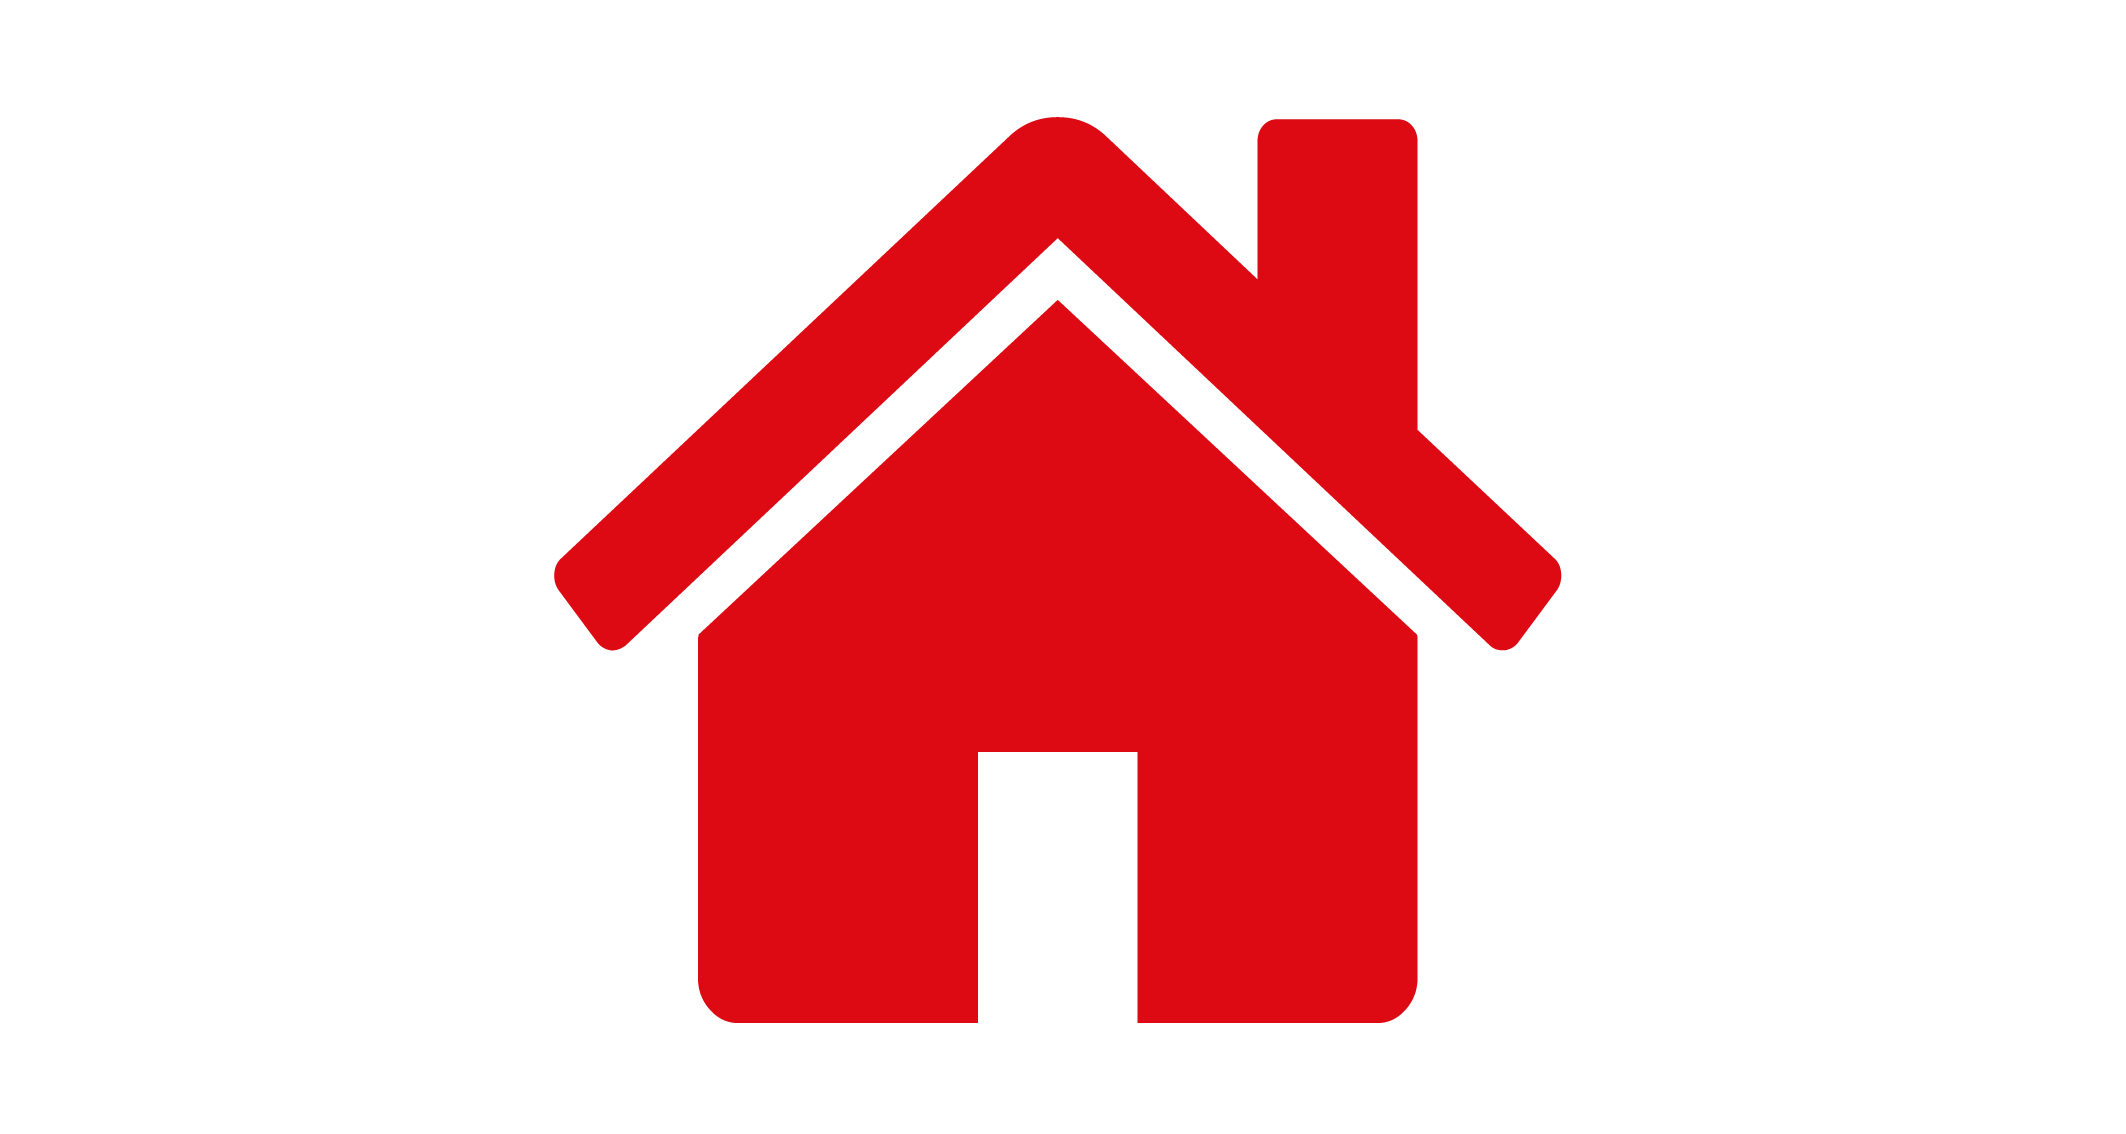
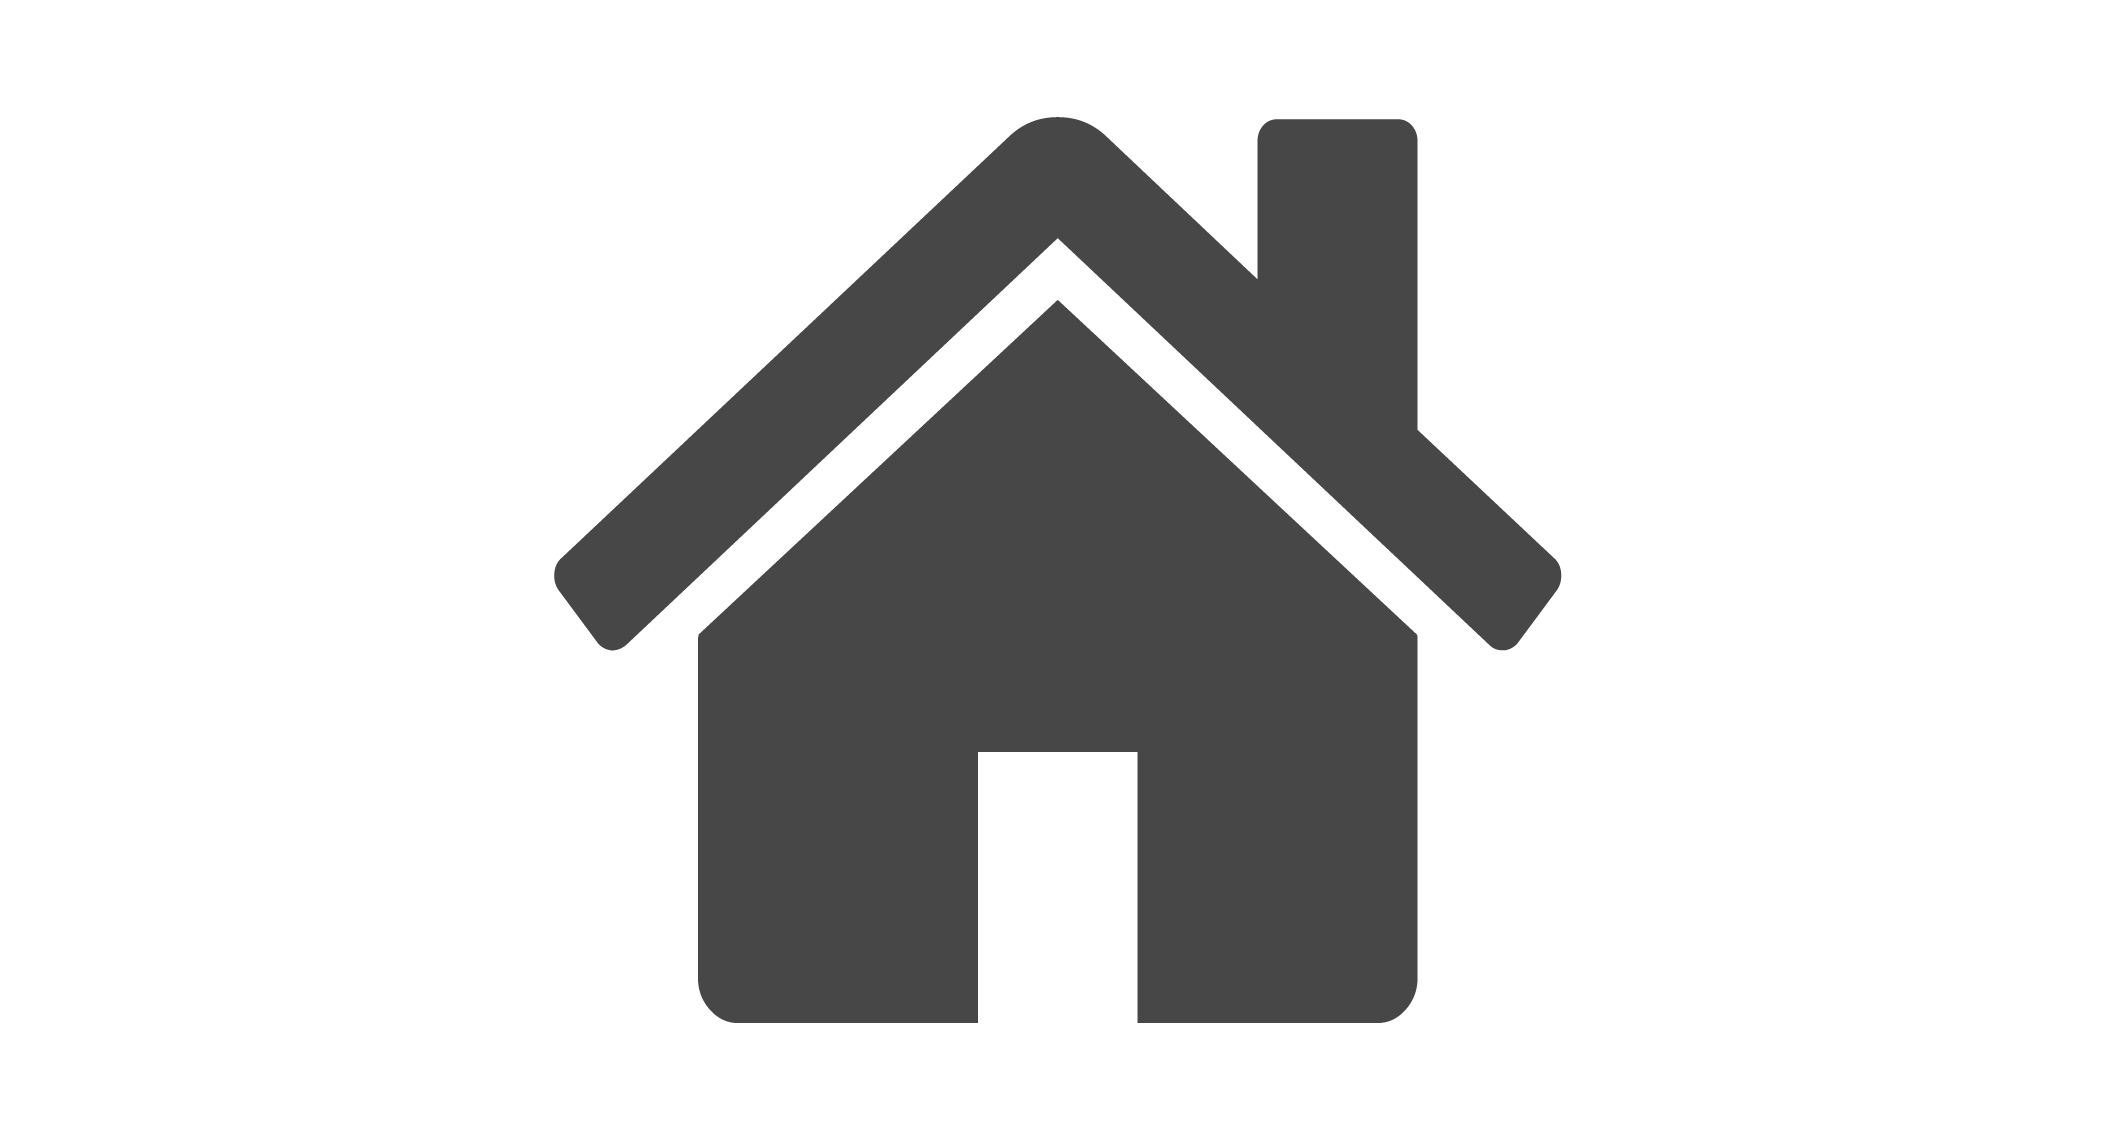
modifications in style

Changed region(s): [[0.2484, 0.0926, 0.7451, 0.9259]]

diff --git a/scripts/utils.js b/scripts/utils.js
@@ -164,12 +164,53 @@ function convertBrazilIndigenousToGeoJSON(space){
 				freed: true,
 				url: '',
 				description: `${space.etnia_nome}: ${space.modalidade_ti}`,
-				type: 'Housing'
+				type: 'Land / Food'
 			},
 			geometry
 		};
 }
 
+function convertBrazilIndigenousToGeoJSONPoint(space){
+	// const space = {
+	//    "FID": "ti_sirgas.fid--1bcb9690_17af839dbee_-5fbd",
+	//    "gid": 1,
+	//    "terrai_codigo": 101,
+	//    "terrai_nome": "Acapuri de Cima",
+	//    "etnia_nome": "Kokama",
+	//    "municipio_nome": "Fonte Boa",
+	//    "uf_sigla": "AM",
+	//    "superficie_perimetro_ha": 18393.9411,
+	//    "fase_ti": "Declarada",
+	//    "modalidade_ti": "Tradicionalmente ocupada",
+	//    "reestudo_ti": "",
+	//    "cr": "COORDENACAO REGIONAL DO ALTO SOLIMOES",
+	//    "faixa_fronteira": "Não",
+	//    "undadm_codigo": 30202001857,
+	//    "undadm_nome": "COORDENACAO REGIONAL DO ALTO SOLIMOES",
+	//    "undadm_sigla": "CR-AS",
+	//    "the_geom": "MULTIPOLYGON (((-66.883591291858 -2.5375211068052, -66.87456584899 -2.5375632947577, -66.865585616319 -2.5375946676445, -66.856577563511 -2.5376471796339, -66.847615290895 -2.5376678254665, -66.838580717955 -2.5377703576827, -66.829672375554 -2.5377537723316, -66.820621992511 -2.5378540065443, -66.811660289863 -2.5379183195647, -66.802676857092 -2.537968039531, -66.793663484155 -2.5379939104063, -66.784667301307 -2.5380668204779, -66.775624678214 -2.5381163184675, -66.766706515701 -2.5381650754017, -66.761872462651 -2.5381915025341, -66.761750375688 -2.5469487015188, -66.761684659125 -2.5559888486969, -66.761498351992 -2.5650119578431, -66.761403395311 -2.5740419329719, -66.761284358552 -2.5831279833448, -66.761118411582 -2.5922125757224, -66.761046755058 -2.6012538038635, -66.760928858302 -2.6102394317751, -66.760810341575 -2.6192697958717, -66.760729973801 -2.6253893973613, -66.760617671389 -2.6273556703594, -66.761754223954 -2.6276165192021, -66.762629928591 -2.6278214713512, -66.762946672822 -2.6278401033648, -66.763375209134 -2.627914631419, -66.763822377459 -2.6279518954461, -66.764120489676 -2.6280636875275, -66.765201146462 -2.6284549598122, -66.766020955059 -2.6286412799478, -66.766412227343 -2.6287717040427, -66.766635811506 -2.6288462320969, -66.767008451777 -2.6289766561918, -66.767325196008 -2.6290884482732, -66.767660572252 -2.6291257123003, -66.768610804943 -2.6294983525714, -66.769915045892 -2.6299455208968, -66.771722351207 -2.6305976413713, -66.774219041024 -2.6315292420492, -66.77582139419 -2.632088202456, -66.777051107085 -2.6325167387678, -66.778038603803 -2.6329639070932, -66.780348973485 -2.6341563559609, -66.781504158325 -2.634864372476, -66.782752503234 -2.6356096530184, -66.783702735925 -2.6363921975878, -66.784541176535 -2.6371933741708, -66.784895184793 -2.6375287504148, -66.78493244882 -2.6376591745097, -66.785864049498 -2.6387025672689, -66.787242818501 -2.6405657686247, -66.788714747572 -2.6425780260889, -66.78938550006 -2.6434723627397, -66.790652476982 -2.6451678759734, -66.792031245985 -2.6469379172614, -66.792403886256 -2.6474223496139, -66.792925582636 -2.6483353182783, -66.793913079355 -2.6496768232544, -66.795161424263 -2.6510555922577, -66.796130288968 -2.6517449767593, -66.797993490324 -2.6529187936134, -66.798366130595 -2.6529933216677, -66.799204571205 -2.6534591220066, -66.800601972222 -2.6544279867116, -66.801924845184 -2.6555645395386, -66.803732150499 -2.6575395329758, -66.804868703327 -2.6587878778841, -66.806079784208 -2.6601480148738, -66.806545584547 -2.6606697112534, -66.80929679454 -2.6640183088489, -66.8112660064 -2.6663283458388, -66.813197348801 -2.6686005133698, -66.814825735532 -2.6712513754893, -66.816189036051 -2.6737128903145, -66.81819611737 -2.676628838646, -66.81820114183 -2.6766344606018, -66.82880370782 -2.6680531813473, -66.831984742363 -2.66434197438, -66.83637759959 -2.6607822452481, -66.841527845993 -2.6578284274578, -66.845011836208 -2.6562379101861, -66.848192870751 -2.6550260875029, -66.853040161484 -2.6525267032188, -66.859553708406 -2.6504060135232, -66.865612821822 -2.6492699297577, -66.870838807143 -2.6494214075931, -66.876594964888 -2.6500273189347, -66.881215038868 -2.651466358371, -66.886367933204 -2.6535124267497, -66.886957045047 -2.6516180011431, -66.888051564773 -2.6502420334884, -66.889020996529 -2.6488035218494, -66.889271172467 -2.6473024662262, -66.889740252349 -2.6456763226343, -66.890647140121 -2.6448945228305, -66.891241307972 -2.6450196107991, -66.891491483909 -2.6446443468933, -66.891929291799 -2.642924387325, -66.892773635587 -2.6423927634584, -66.894368507187 -2.6395782841648, -66.895838290818 -2.6373892447142, -66.896432458669 -2.6359820050674, -66.898121146245 -2.6332613417502, -66.899747289837 -2.6303843184723, -66.900560361633 -2.6286643589039, -66.901217073468 -2.6271945752728, -66.901467249406 -2.625787335626, -66.901373433429 -2.6254746157045, -66.901373433429 -2.6245989999243, -66.901748697335 -2.6234106642225, -66.902530497139 -2.6215968886777, -66.903437384911 -2.6199707450858, -66.903812648817 -2.6184071454783, -66.903750104833 -2.6170311778236, -66.903062121005 -2.6140290665771, -66.902280321201 -2.6123716509931, -66.902061417256 -2.6110269553305, -66.901123257492 -2.6086190119349, -66.900435273665 -2.6072430442802, -66.898977807581 -2.6034372600502, -66.897834118567 -2.6008376396317, -66.896126863359 -2.597977722251, -66.894319674372 -2.5954555304351, -66.892564058741 -2.5934717807225, -66.889884927718 -2.5909556654592, -66.886619655483 -2.5882649855897, -66.881139849937 -2.5848462788015, -66.881449578897 -2.5788687579206, -66.881964887549 -2.5698077716633, -66.882409515878 -2.5607443354177, -66.882900784483 -2.5517806465746, -66.883358012904 -2.5427337293794, -66.883591291858 -2.5375211068052)))",
+	//    "dominio_uniao": "f"
+	//  };
+	const startIndex = space.the_geom.indexOf('(') + 3;
+	const endIndex = space.the_geom.indexOf(',');
+	const coordinates = space.the_geom.slice(startIndex,endIndex).split(' ').map( val => Number(val));
+
+	const geometry = {
+		type: 'Point',
+		coordinates
+	};
+	return {
+			type: 'Feature',
+			properties: {
+				admin: space.terrai_nome || '',
+				freed: true,
+				url: '',
+				description: `${space.etnia_nome}: ${space.modalidade_ti}`,
+				type: 'Land / Food'
+			},
+			geometry
+		};
+}
 function convertSquatToGeoJSON(squat) {
 	const lon = Number(squat.map.lon);
 	const lat = Number(squat.map.lat);

diff --git a/scripts/map.js b/scripts/map.js
@@ -26,7 +26,8 @@ const bw = {
 
 const mapData = bw; // Select from the Map Options above
 
-const freeColor = 'red';
+// const freeColor = '#c49829';//'red';
+const freeColor = '#010000';//'red';
 
 const map = L.map('map').setView([0, 0], 2);
 
@@ -86,11 +87,16 @@ async function getData(){
 
 	brazilIndigenousOfficial.forEach(space => {
 		freeingSpacesJSON.push(convertBrazilIndigenousToGeoJSON(space));
+		freeingSpacesJSON.push(convertBrazilIndigenousToGeoJSONPoint(space));
 	});
 
-	// const squatsGeo = [];
-	const squatsGeo = await getSquats();
-	freeingSpacesJSON = freeingSpacesJSON.concat(squatsGeo);
+	try {
+		// const squatsGeo = [];
+		const squatsGeo = await getSquats();
+		freeingSpacesJSON = freeingSpacesJSON.concat(squatsGeo);
+	} catch (err) {
+		console.log('Error getting squats: ',err);
+	}
 
 	L.geoJSON(freeingSpacesJSON, {
 		style: function (feature) {

diff --git a/styles/style.css b/styles/style.css
@@ -19,7 +19,8 @@
 
 :root {
   --gold: #c49829; 
-  --charcoal: #272626;
+  --charcoal: #010000;
+  --charcoal-normal: #272626;
   --brown: #593d25;
 
   --map-grey: #f2f2f2;
@@ -145,8 +146,8 @@ body button:hover {
 }
 /* not low opacity so adjust */
 button.my-location.material-icons {
-	background-color: #544735;
-	color: #c29737;
+	background-color: var(--charcoal-normal);
+	color: var(--gold);
 }
 .leaflet-control-zoom.leaflet-bar.leaflet-control a {
     background-color: var(--charcoal);
@@ -283,8 +284,8 @@ button.my-location.material-icons {
 	position: absolute;
 	top: 40%;
 	left: 40%;
-	animation: spin 2s ease-in-out infinite;
-    -webkit-animation: spin 2s ease-in-out infinite;
+	animation: spin 2s linear infinite;
+    -webkit-animation: spin 2s linear infinite;
 }
 
 @keyframes spin {
